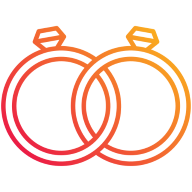
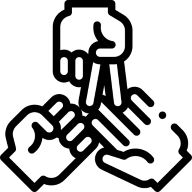
Automaticka zaloha

diff --git a/Kamen nuzky papir/sw.js b/Kamen nuzky papir/sw.js
@@ -1,19 +1,18 @@
 //pro práci offline a ukládání do cache
-  
-const CACHE_NAME = "v1";
+
+const CACHE_NAME = "v2";
 const cacheAssets = [
-  "/",
-  "/icon192.png",
-  "/icon512.png",
-  "/index.html",
-  "/index.js",
-  "/manifest.json",
-  "/style.css"
-  
-  
-  
+  "./",
+  "./index.html",
+  "./index.js",
+  "./style.css",
+  "./manifest.json",
+  "./bg.jpg",
+  "./icon192.png",
+  "./icon512.png"
 ];
-  
+
+// Instalace: uložení souborů do cache
 self.addEventListener("install", e => {
   e.waitUntil(
     caches.open(CACHE_NAME)
@@ -24,7 +23,8 @@ self.addEventListener("install", e => {
       .then(() => self.skipWaiting())
   );
 });
-  
+
+// Aktivace: smazání starých cache
 self.addEventListener("activate", e => {
   e.waitUntil(
     caches.keys().then(cacheNames => {
@@ -36,6 +36,15 @@ self.addEventListener("activate", e => {
           }
         })
       );
+    }).then(() => self.clients.claim())
+  );
+});
+
+// Fetch: vrací soubory z cache, když není internet
+self.addEventListener("fetch", e => {
+  e.respondWith(
+    caches.match(e.request).then(cached => {
+      return cached || fetch(e.request);
     })
   );
 });

diff --git a/Kamen nuzky papir/style.css b/Kamen nuzky papir/style.css
@@ -2,14 +2,19 @@ body {
     display: flex;
     flex-direction: column;
     align-items: center;
+    
 }
-
+.pepapig{
+    border: 4px, solid black;
+    background-image: url(bg.jpg);
+    background-size: cover;  
+}
 body>div {
     display: flex;
     flex-direction: column;
     align-items: center;
 
-    border: 1px solid blakc;
+    border: 1px solid black;
     border-radius: 10px;
     padding: 10px;
 }

diff --git a/Kamen nuzky papir/index.html b/Kamen nuzky papir/index.html
@@ -9,7 +9,7 @@
     <script src="index.js" defer></script>
 </head>
 <body>
-    <div>
+    <div class = pepapig>
         <h1>Kamen Nuzky Papir </h1>
         </br>
         <h2>Hrac</h2>
